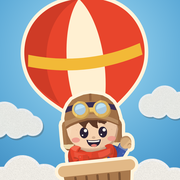
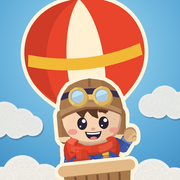
Ícono: Nilo un poco más grande dentro de la canasta (el globo queda igual)
Claude-Session: https://claude.ai/code/session_017FkcQpDzkf2gnNUK4w8AxS

Changed region(s): [[0.2778, 0.4167, 0.8056, 0.9167]]

diff --git a/scripts/iconos/icono.html b/scripts/iconos/icono.html
@@ -27,7 +27,8 @@ const HEAD=q.get('pose')==='cabeza2'?CARA:JUEGO; // variante: sólo la cabeza as
 let cloud=''; try{cloud=P.artThumb('nube');}catch(e){}
 const BALL=`<svg viewBox="0 0 160 250" role="img" aria-label="Paper Voyager"><path d="M62 142 L46 190 M98 142 L114 190 M74 144 L66 190 M86 144 L94 190" stroke="#704332" stroke-width="2.6" stroke-linecap="round"/><g transform="translate(-16 0) scale(1.6)"><g stroke="#FFF4DC" stroke-width="5" stroke-linejoin="round"><path d="M60 6 C92 6 104 30 100 50 C97 66 82 76 72 84 L48 84 C38 76 23 66 20 50 C16 30 28 6 60 6Z" fill="#E8452C"/></g><path d="M60 6 C92 6 104 30 100 50 C97 66 82 76 72 84 L48 84 C38 76 23 66 20 50 C16 30 28 6 60 6Z" fill="#E8452C"/><path d="M60 6 C74 22 76 62 68 84 L52 84 C44 62 46 22 60 6Z" fill="#FFF0D2"/><path d="M60 6 C36 14 26 50 40 76 C30 68 22 60 20 50 C16 30 28 6 60 6Z" fill="#B93322" opacity=".55"/><path d="M22 40 Q60 52 98 40 L99 48 Q60 60 21 48Z" fill="#F2B937"/><path d="M48 84 L72 84 L70 90 L50 90Z" fill="#704332"/></g><g class="inl" transform="translate(11 106) scale(1.1)"></g><g stroke="#FFF4DC" stroke-width="7" stroke-linejoin="round"><path d="M43 196 H117 L111 240 Q80 247 49 240Z" fill="#A9794D"/><rect x="38" y="188" width="84" height="12" rx="6" fill="#E2B987"/></g><path d="M43 196 H117 L111 240 Q80 247 49 240Z" fill="#A9794D"/><rect x="38" y="188" width="84" height="12" rx="6" fill="#E2B987"/><path d="M56 202 L58 240 M68 202 L69 242 M80 202 V243 M92 202 L91 242 M104 202 L102 240" stroke="#7A5334" stroke-width="2.4" stroke-linecap="round"/><path d="M47 228 Q80 236 113 228 L111 240 Q80 247 49 240Z" fill="#6B4A2E"/><path d="M46 214 Q80 221 114 214" stroke="#7A5334" stroke-width="2.4" fill="none"/></svg>`;
 const balloon=(nilo,w)=>{const d=document.createElement('div');d.innerHTML=BALL;const sv=d.firstElementChild;sv.setAttribute('width',w);sv.setAttribute('height',w*250/160);
-  sv.querySelector('.inl').innerHTML=nilo?nilo.replace('<svg','<svg x="0" y="0" width="120" height="120" overflow="visible"'):'';return sv.outerHTML;};
+  const NS=JSON.parse(q.get('L')||'{}').ns||1, W=120*NS; // L.ns: Nilo más grande dentro de la canasta (crece desde abajo, como saliendo)
+  sv.querySelector('.inl').innerHTML=nilo?nilo.replace('<svg',`<svg x="${(120-W)/2}" y="${(120-W)*.88}" width="${W}" height="${W}" overflow="visible"`):'';return sv.outerHTML;};
 const rays=(cx,cy,n,col)=>{let o='';for(let i=0;i<n;i++){const a=i/n*Math.PI*2,b=a+Math.PI/n;o+=`<path d="M${cx} ${cy}L${cx+2000*Math.cos(a)} ${cy+2000*Math.sin(a)}L${cx+2000*Math.cos(b)} ${cy+2000*Math.sin(b)}Z" fill="${col}"/>`;}return o;};
 const BG=`<svg viewBox="0 0 1024 1024" width="${S}" height="${S}" style="position:absolute;inset:0"><defs><radialGradient id="g" cx=".42" cy=".38" r=".8"><stop offset="0" stop-color="#F0654A"/><stop offset=".55" stop-color="#D93A2B"/><stop offset="1" stop-color="#A8261E"/></radialGradient></defs><rect width="1024" height="1024" fill="url(#g)"/><g opacity=".14">${rays(430,400,18,'#FFE2C4')}</g></svg>`;
 const k=S/1024, img=(u,x,y,w,op=1)=>u?`<img src="${u}" style="position:absolute;left:${x*k}px;top:${y*k}px;width:${w*k}px;opacity:${op}">`:'';

diff --git a/scripts/iconos/render.py b/scripts/iconos/render.py
@@ -4,7 +4,7 @@ import asyncio,sys,shutil,json
 from playwright.async_api import async_playwright
 from PIL import Image
 # ícono oficial: Nilo en el globo, de cerca, sobre cielo con nubes de papel
-L=sys.argv[1] if len(sys.argv)>1 else '{"gx":92,"gy":-60,"gw":840,"tilt":-6,"cielo":"nubes"}'
+L=sys.argv[1] if len(sys.argv)>1 else '{"gx":92,"gy":-60,"gw":840,"tilt":-6,"cielo":"nubes","ns":1.15}'
 POSE=sys.argv[2] if len(sys.argv)>2 else 'globo'  # saludo | juego
 OUT=sys.argv[3] if len(sys.argv)>3 else 'assets/'
 async def main():
